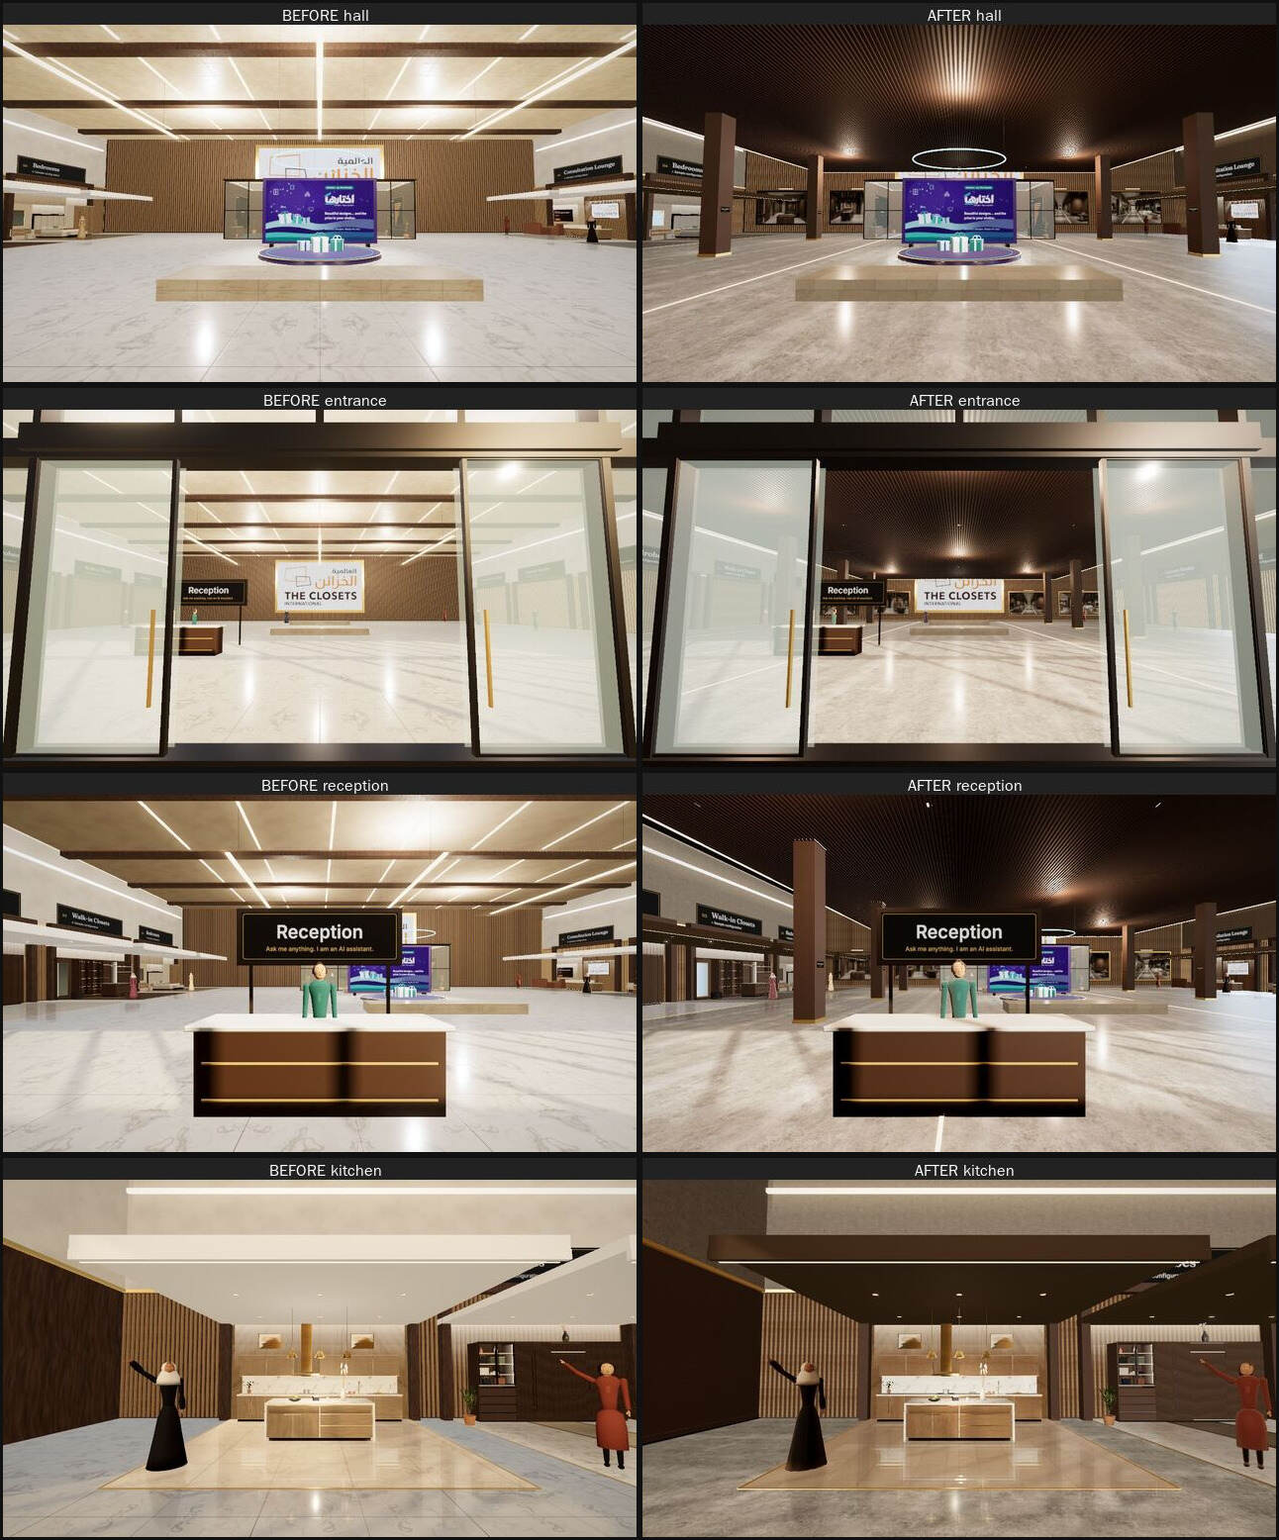
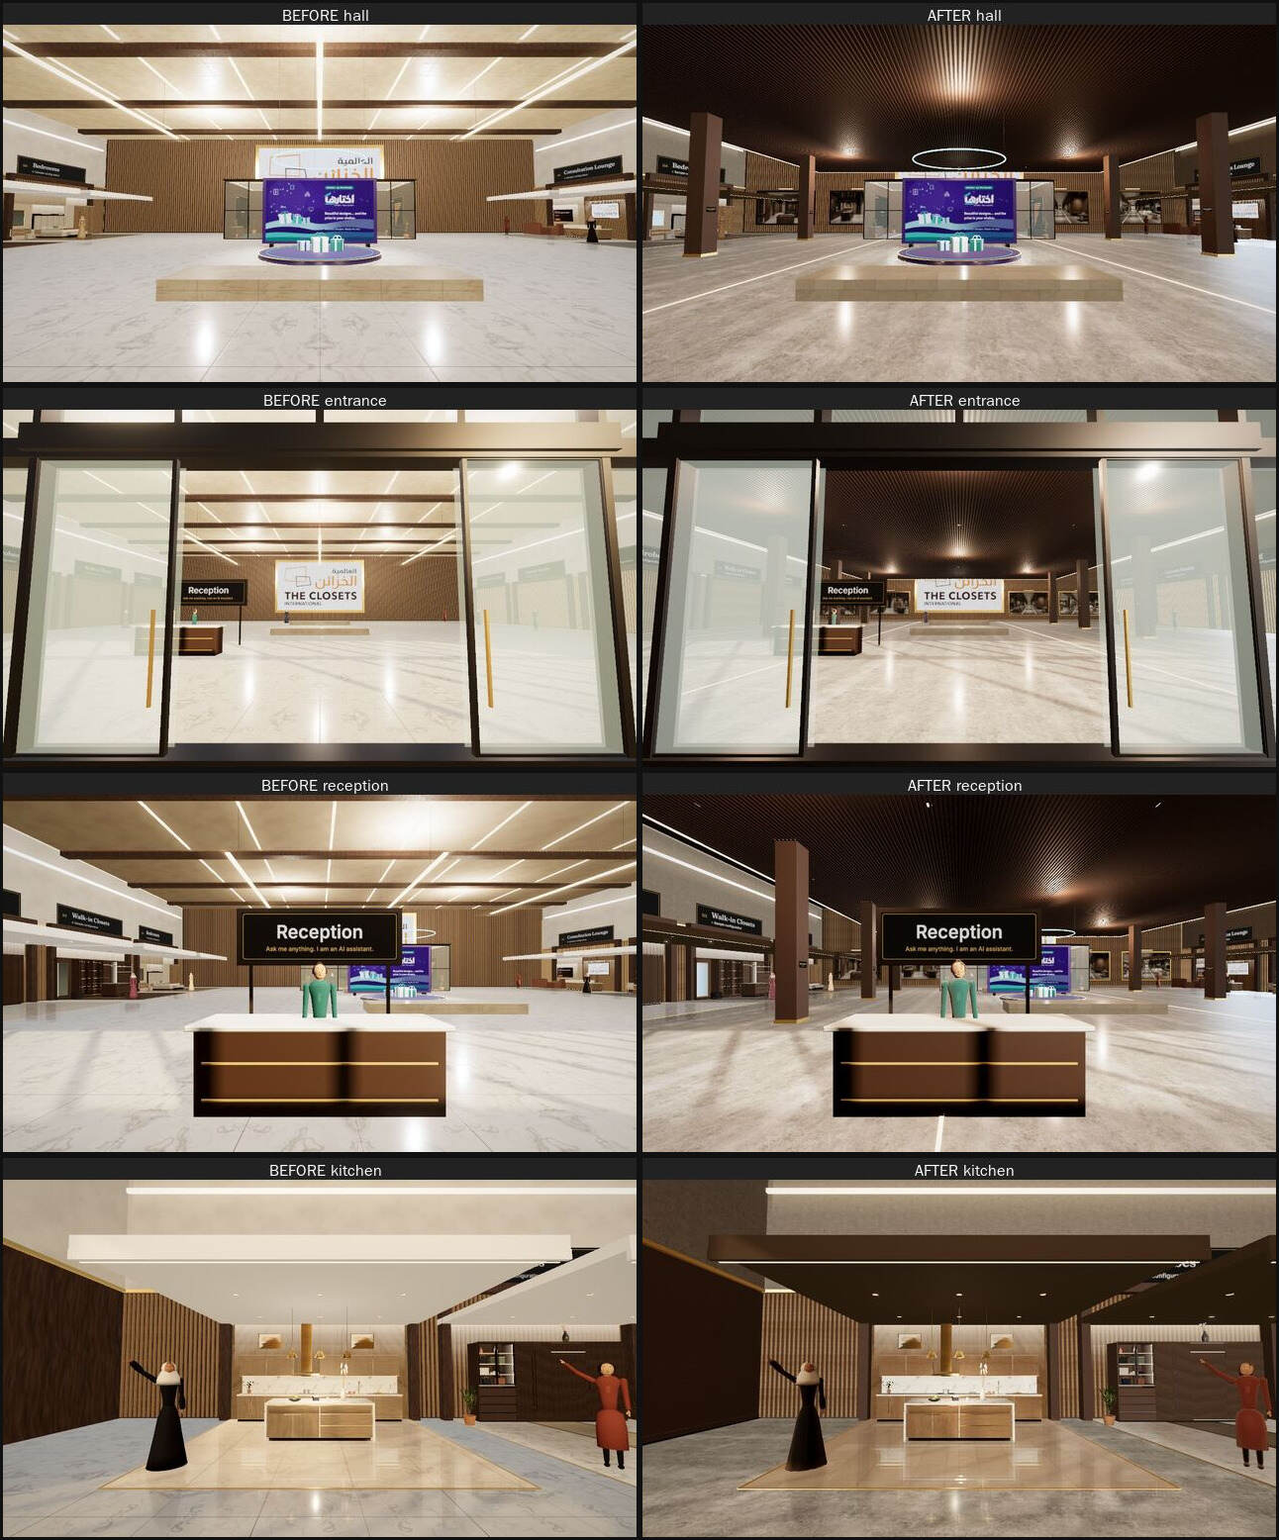
Realism 5: hijab drape below the chin, restrained sheen, palette-only colour literals, REALISM.md (scores, reference table, perf, assets, owner inputs), stats JSON, face close-up, GTAO harness switch
Claude-Session: https://claude.ai/code/session_017ZaR8CiDH3TQygKUjUtw2u

diff --git a/src/showroom3d/characters/rig.js b/src/showroom3d/characters/rig.js
@@ -15,7 +15,7 @@ let _mat = null;
 /** one shared material: vertex colours carry the albedo; a soft sheen lobe gives skin / cloth the cheap 'soft light' look of subsurface scattering, and the real linen normal map (CC0, Poly Haven rough_linen) gives cloth a woven micro relief */
 const material = () => {
   if (_mat) return _mat;
-  const m = new THREE.MeshPhysicalMaterial({ vertexColors: true, roughness: 0.72, metalness: 0.02, envMapIntensity: 0.45, sheen: 0.55, sheenRoughness: 0.45, sheenColor: new THREE.Color(P.skinB).lerp(new THREE.Color(0xffffff), 0.25) });
+  const m = new THREE.MeshPhysicalMaterial({ vertexColors: true, roughness: 0.72, metalness: 0.02, envMapIntensity: 0.45, sheen: 0.28, sheenRoughness: 0.5, sheenColor: new THREE.Color(P.sheenSoft) });   // restrained: a strong skin-coloured sheen turned black abayas brown
   const R = realSet('linen', 512); if (R && R.normal) { m.normalMap = toTex(R.normal, { srgb: false, repeat: [4, 4], anisotropy: 4 }); m.normalScale.set(0.55, 0.55); }
   return (_mat = m);
 };
@@ -103,7 +103,8 @@ export function buildCharacter(o = {}) {
   const wedge = (r, extra = 0.7) => new THREE.SphereGeometry(r, q ? 36 : 8, q ? 22 : 6, Math.PI / 2 + extra, Math.PI * 2 - 2 * extra, 0, 1.95);
   const covered = o.scarf || (male && outfit === 'thobe');
   if (covered) {
-    headItems.push(G(wedge(0.124, 0.7), scarfC, { y: 0.012, z: -0.008 }), G(new THREE.LatheGeometry(V([[0.125, -0.02], [0.2, -0.17], [0.215, -0.27], [0.001, -0.27]]).reverse(), q ? 36 : 8), scarfC, { y: -0.01, z: -0.02, s: [1, 1, 0.82] }));
+    headItems.push(G(wedge(0.124, 0.7), scarfC, { y: 0.012, z: -0.008 }), G(new THREE.LatheGeometry(V([[0.1, -0.085], [0.19, -0.19], [0.212, -0.29], [0.001, -0.29]]).reverse(), q ? 36 : 8), scarfC, { y: -0.01, z: -0.03, s: [1, 1, 0.82] }),
+      G(sph(0.086, q), scarfC, { y: -0.092, z: -0.016, s: [1.08, 0.72, 0.98] }));   // the drape now starts under the chin (it used to hide the mouth) with a soft wrap round the neck
     if (male) headItems.push(G(new THREE.TorusGeometry(0.115, 0.009, 4, q ? 14 : 8), P.agalBlack, { y: 0.065, rx: Math.PI / 2 }));
   } else if (o.hair !== 'none') {
     const hs = o.hair || (male || guest ? 'short' : 'bun');
@@ -113,10 +114,10 @@ export function buildCharacter(o = {}) {
     if (hs === 'long') headItems.push(G(limb(0.085, 0.06, 0.28, q), hairC, { y: -0.04, z: -0.07, s: [1.1, 1, 0.55] }));
   }
   const headMesh = M(headItems, head, 'headMesh');
-  const blush = new THREE.Color(skin).lerp(new THREE.Color(P.lipTone), 0.2).getHex(), lipHi = new THREE.Color(P.lipTone).lerp(new THREE.Color(0xffffff), 0.08).getHex(), iris = o.iris != null ? o.iris : P.eyeIris;
+  const blush = new THREE.Color(skin).lerp(new THREE.Color(P.lipTone), 0.2).getHex(), lipHi = new THREE.Color(P.lipTone).lerp(new THREE.Color(P.ikWhite), 0.08).getHex(), iris = o.iris != null ? o.iris : P.eyeIris;
   // eyes: sclera (slightly grey toward the corners), coloured iris with a darker limbal rim, pupil and a tiny specular catch-light; blink / saccade move the whole eye group
   const eyes = M([-1, 1].flatMap((x) => [G(sph(0.0128, q), P.sclera, { x: x * 0.036, s: [1.3, 0.88, 0.5] }), G(sph(0.0082, q), shade(iris, 0.55), { x: x * 0.036, z: 0.0035, s: [1, 1, 0.5] }), G(sph(0.0066, q), iris, { x: x * 0.036, z: 0.0045, s: [1, 1, 0.5] }),
-    G(sph(0.0034, 0), P.eyeDark, { x: x * 0.036, z: 0.0072, s: [1, 1, 0.45] }), G(sph(0.0014, 0), 0xffffff, { x: x * 0.036 + 0.0032, y: 0.0035, z: 0.0086 })]), head, 'eyes'); eyes.position.set(0, 0.022, 0.087); eyes.castShadow = false;
+    G(sph(0.0034, 0), P.eyeDark, { x: x * 0.036, z: 0.0072, s: [1, 1, 0.45] }), G(sph(0.0014, 0), P.ikWhite, { x: x * 0.036 + 0.0032, y: 0.0035, z: 0.0086 })]), head, 'eyes'); eyes.position.set(0, 0.022, 0.087); eyes.castShadow = false;
   // lids, lashes, brows (arched, three segments each), nose (bridge, tip, nostrils), cheeks and the upper lip live in the head mesh
   for (const x of [-1, 1]) {
     headItems.push(G(sph(0.0138, q), skinD, { x: x * 0.036, y: 0.0305, z: 0.0875, s: [1.32, 0.42, 0.62] }), G(new THREE.BoxGeometry(0.03, 0.0032, 0.004), P.eyeDark, { x: x * 0.036, y: 0.0345, z: 0.0948, rz: x * -0.06 }),
@@ -128,7 +129,7 @@ export function buildCharacter(o = {}) {
   // ---- arms: rounded upper arm + forearm (a bell sleeve on the abaya), mitten hand with a thumb
   const fore0 = outfit === 'suit' && male ? P.shirtWhite : cloth;
   for (const side of [-1, 1]) {
-    const sj = J(chest, side * (sh + 0.018), 0.41, 0, side < 0 ? 'shoulderR' : 'shoulderL'), upper = M([G(limb(0.05, 0.039, 0.25, q), cloth), G(sph(0.056, q), cloth, { y: -0.004, s: [1.0, 1.12, 1.0] })], sj, 'upperArm');   // the round deltoid fills the gap between shoulder and sleeve
+    const sj = J(chest, side * (sh + 0.018), 0.41, 0, side < 0 ? 'shoulderR' : 'shoulderL'), upper = M([G(limb(0.05, 0.039, 0.25, q), cloth), G(sph(0.0515, q), cloth, { y: -0.002, s: [1.0, 1.1, 1.0] })], sj, 'upperArm');   // the round deltoid fills the gap between shoulder and sleeve
     const ej = J(sj, 0, -0.27, 0, 'elbow');
     const fore = M([G(limb(0.039, 0.032 + sleeveW, 0.22, q, sleeveW * 0.5), fore0), G(sph(0.03, q), skin, { y: -0.285, s: [0.62, 1.3, 0.95] }), G(sph(0.024, q), skin, { y: -0.33, z: 0.004, s: [0.6, 1.25, 0.8] }), G(sph(0.0135, 0), skin, { x: -side * 0.022, y: -0.3, z: 0.018, s: [1, 1.7, 1] })], ej, 'foreArm');
     arms[side < 0 ? 'R' : 'L'] = { shoulder: sj, elbow: ej, upper, fore };

diff --git a/src/showroom3d/3d/realism/gallery.js b/src/showroom3d/3d/realism/gallery.js
@@ -22,11 +22,11 @@ export function buildGalleryFrames({ depth, lang = 'en' }) {
   GALLERY.forEach((g, i) => {
     const x = slots[i], grp = new THREE.Group(); grp.position.set(x, y, z); grp.userData.label = lang === 'ar' ? g.ar : g.en; grp.name = 'frame-' + g.id; group.add(grp);
     grp.add(mesh(box(W + 0.34, H + 0.34, 0.06), frameM, {})); grp.add(mesh(box(W + 0.16, H + 0.16, 0.07), matM, {}));
-    const m = new THREE.MeshBasicMaterial({ color: 0x000000, toneMapped: true }); mats.push(m);
+    const m = new THREE.MeshBasicMaterial({ color: PALETTE.ink, toneMapped: true }); mats.push(m);
     const pic = new THREE.Mesh(new THREE.PlaneGeometry(W, H), m); pic.position.z = 0.04; grp.add(pic);
     grp.add(mesh(box(1.4, 0.04, 0.12), light, { y: H / 2 + 0.34, z: 0.1 }));
   });
   const loader = new THREE.TextureLoader(), tex = [];
-  const load = () => GALLERY.forEach((g, i) => loader.load(galleryUrl(g), (t) => { t.colorSpace = THREE.SRGBColorSpace; t.anisotropy = 8; tex.push(t); mats[i].map = t; mats[i].color.setHex(0xe6dccf); mats[i].needsUpdate = true; }, undefined, () => { group.children[i].visible = false; }));
+  const load = () => GALLERY.forEach((g, i) => loader.load(galleryUrl(g), (t) => { t.colorSpace = THREE.SRGBColorSpace; t.anisotropy = 8; tex.push(t); mats[i].map = t; mats[i].color.setHex(PALETTE.photoTint); mats[i].needsUpdate = true; }, undefined, () => { group.children[i].visible = false; }));
   return { group, load, setLanguage(l) { group.children.forEach((c, i) => { c.userData.label = l === 'ar' ? GALLERY[i].ar : GALLERY[i].en; }); }, dispose() { tex.forEach((t) => t.dispose()); mats.forEach((m) => m.dispose()); } };
 }

diff --git a/src/showroom3d/3d/palette.js b/src/showroom3d/3d/palette.js
@@ -62,7 +62,7 @@ export const PALETTE = {
   // characters (procedural staff / visitor avatars): stylised skin tones, hair, modest professional outfits
   skinA: 0xf0c9a4, skinB: 0xd9a47c, skinC: 0xb97d57, skinD: 0x8a5a3c, hairBlack: 0x1c1512, hairBrown: 0x4a3224, hairDark: 0x2a1d16,
   abayaBlack: 0x211e22, abayaNavy: 0x1f2a44, abayaSage: 0x5f705c, abayaPlum: 0x5a3347, abayaSand: 0xb9a07f, coatTeal: 0x2e6b68, coatBrick: 0x8a4a3a,
-  scarfCream: 0xefe6d6, scarfRose: 0xc7a0a0, scarfGrey: 0x8c8f93, thobeWhite: 0xf3f0e8, ghutraWhite: 0xfafafa, agalBlack: 0x141214, suitGrey: 0x55585d, suitNavy: 0x28324a, shirtWhite: 0xf1f1ee, shoeDark: 0x1b1715, eyeDark: 0x1d1512, eyeIris: 0x5a3a24, sclera: 0xe9e5df, mouthDark: 0x3a1c1a, lipTone: 0x9a5a52,
+  scarfCream: 0xefe6d6, scarfRose: 0xc7a0a0, scarfGrey: 0x8c8f93, thobeWhite: 0xf3f0e8, ghutraWhite: 0xfafafa, agalBlack: 0x141214, suitGrey: 0x55585d, suitNavy: 0x28324a, shirtWhite: 0xf1f1ee, shoeDark: 0x1b1715, eyeDark: 0x1d1512, eyeIris: 0x5a3a24, sheenSoft: 0x8a7f78, photoTint: 0xe6dccf, sclera: 0xe9e5df, mouthDark: 0x3a1c1a, lipTone: 0x9a5a52,
   // overlay
   veil: 0xf6efe4,
   // material tints

diff --git a/docs/showroom3d/REALISM.md b/docs/showroom3d/REALISM.md
@@ -1,16 +1,64 @@
-# Showroom realism pass (branch `claude/web-realism-3`)
+# Showroom realism pass (branch `claude/web-realism-3`, draft PR #16)
 
-Owner feedback: the models looked cheap; characters, building, colours and lighting needed to become truly realistic; VIP text was hard to read.
-This pass is **add-only** (src/showroom3d, public/yas-bloom/realism, scripts/showroom3d-qa, docs). Honest headline: the showroom moved from a bright, white-marble, generic 3D look (about 4/10) to a dark walnut / microcement / warm-LED look that follows the owner's reference photos (about 6.5/10 in the hall, 5 to 6 in the rooms, characters 5.5/10). It is **not photoreal**, and fully photoreal people and products need licensed or custom assets (see the last section).
+Owner feedback: the models looked cheap; characters, building, colours and lighting needed to become truly realistic; VIP text was hard to read. The owner then sent 16 reference photos as the target look (dark walnut slat ceilings with spots and LED coves, travertine / concrete walls, light-grey microcement floor with LED guide lines, walnut columns with a lit brand plate, bouclé sofas, green marble vanity, dark kitchens).
+
+This pass is **add-only** (src/showroom3d, public/yas-bloom/realism, scripts/showroom3d-qa, docs). Honest headline: the hall moved from a bright white-marble generic look (4/10) to the reference's dark walnut / microcement / warm-LED language (6.5/10). The rooms improved less (5 -> 5.5 to 6) because their furniture was not remodelled. Characters are still stylised mannequins (4.5 -> 5). **Nothing here is photoreal.**
+
+## Before / after (viewed, high tier, software GL)
+
+Sheets: `screenshots/realism-1..4-*.jpg` (before left, after right) and `realism-5-face-closeup-after.jpg`. Scores are my own honest 1 to 10 against "a real premium showroom photo".
+
+| View | Before | After | What moved it / what still holds it back |
+|---|---|---|---|
+| Hall from spawn | 4 | 6.5 | slat ceiling, coves, spots + pools, floor LED lines, columns, grey microcement. Central benches and the stage are still blocky. |
+| Entrance (through the glass) | 5 | 6 | darker interior reads as depth; glass itself unchanged |
+| Reception | 4 | 6 | same hall changes; the desk is still a plain box |
+| Kitchens | 5 | 6 | real oak / limestone, dark soffit with warm spots; units are simple extrusions |
+| Wardrobes | 5 | 6 | as above |
+| Walk-in | 5 | 6 | as above; no green marble vanity / round mirror yet |
+| Bedrooms | 5 | 5.5 | real plank floor; bed and props unchanged |
+| Doors | 4.5 | 5.5 | darker, more contrast; door leaf unchanged |
+| Living | 5 | 6 | grade + soffit; sofas are still boxes, no bouclé, no big rug |
+| Custom Studio | 5 | 5.5 | screen text now readable from the stand point |
+| Consultation Lounge | 5 | 6 | readable panel, framed YAS Wood picture beside it |
+| VIP room | 5.5 | 5.5 | not edited here (VIP agent); only the shared walnut texture changed |
+| Adviser, 2 m | 4.5 | 5 | rounder limbs, real face features, folds; still a mannequin |
+| Adviser face, 1 m | 4 | 5 | eyes / brows / lips / hijab that no longer hides the mouth |
+| Arabic signs | 6 | 7 | 2x canvases, heavier type |
+| Mobile (low tier) hall | 4 | 5.5 | same look with baked ceiling bounce, no post effects |
+
+Iterations on the weakest views: hall colour and ceiling 5 rounds (orange cast -> beige floor -> neutral grey; slats glossy -> matte; columns moved twice so they frame the aisle and never block a bay), characters 3 rounds (faces, sheen that turned black abayas brown, hijab drape hiding the mouth), low tier 2 rounds (black ceiling -> baked bounce).
+
+## Reference photos vs render (how close, honestly)
+
+The reference photos are not in the repo except the four owner-confirmed YAS Wood images (see below). Closeness = how much of the reference's look the 3D view reproduces.
+
+| Reference | 3D view | Closeness | Matched | Missing |
+|---|---|---|---|---|
+| YAS Wood aisle with lit floor line and columns (`yw-showroom-axis`, `yw-columns-aisle`) | hall | 5.5/10 | slat ceiling + spots, LED floor lines, walnut columns with a lit plate, grey floor, greige walls | the white central ceiling strip, travertine vein direction, furniture vignettes along the aisle, soft global illumination |
+| YAS Wood kitchen + dining (`yw-kitchen-dining`) | kitchens | 4/10 | walnut / stone palette, warm spots, pendants | dark marble island, fluted table, glass display niches with LED |
+| YAS Wood walk-in (`yw-walkin-vanity`) | walk-in | 4/10 | walnut wardrobes, island with drawers | green marble vanity, round mirror, bronze glass fronts with vertical LED |
+| Dark matt kitchens with brass and ribbed glass (unmarked) | kitchens | 3.5/10 | brass, stone | graphite fronts as default finish, ribbed-glass hood |
+| Bouclé sofas, large rugs, sheer curtains (unmarked, one MANTK) | living, lounge | 3.5/10 | warm low-key light | bouclé sofas, organic rugs, curtains, trees in planters |
+| Travertine wall with cove wash (unmarked) | bay feature walls | 4.5/10 | cove wash, fluted wall | real travertine slabs |
+
+## Not done in this pass (so nobody assumes it is there)
+
+* Screen-space AO: a GTAO pass exists behind `?ao=1` (high tier) but it visibly over-darkens the floor near the planar reflector, so it is **off by default**. The baked AO decals and contact-shadow decals from the earlier phases still do that job.
+* Shadows stay PCF-soft (no PCSS / VSM); no window gobos / light shafts beyond the existing sun stripes; glass is unchanged (transmission on high was already there).
+* Bevels: the default chamfer of every `bevelBox` went from 2 mm to 5 mm; hall boxes (benches, desk) are still sharp. Door architraves, mullions, wall panelling and new props were not added.
+* No anti-repetition (macro variation) shader; tiling scale was kept from the procedural sets.
+* Room furniture was not remodelled to the reference (see the table above).
+* KTX2 / basis: no encoder available; WebP is shipped.
 
 ## What changed
 
 | Area | Change | Where |
 |---|---|---|
-| Lighting | Real HDRI (Poly Haven `brown_photostudio_05`, graded warm + darker floor half, PMREM) drives every interior reflection / ambient term. Warm key 3600 K, cool fill 5600 K (hemisphere), exposure 0.78 ACES. Sun fades inside the hall (existing). Spot light pools + LED coves are emissive (HDR) so the high-tier bloom picks them up. | `3d/realism/*`, `3d/engine.js`, `3d/materials.js`, `3d/pbr.js` |
+| Lighting | Real HDRI (Poly Haven `brown_photostudio_05`, graded warm + darker floor half, PMREM) drives every interior reflection / ambient term. Warm key 4300 K (3600 K turned the grey floor beige), cool fill 5600 K (hemisphere), exposure 0.78 ACES. Sun fades inside the hall (existing). Spot light pools + LED coves are emissive (HDR) so the high-tier bloom picks them up. | `3d/realism/*`, `3d/engine.js`, `3d/materials.js`, `3d/pbr.js` |
 | Colour | Palette moved to the reference look: dark walnut, greige plaster, light-grey microcement floor, brass, deep charcoal ceiling plenum. New tokens only in `3d/palette.js`. | `3d/palette.js` |
 | Materials | CC0 PBR sets (albedo + normal + ORM) replace the procedural textures where a real set exists (oak, walnut, limestone, stucco/plaster, microcement, linen, velvet, leather, planks, herringbone). Procedural generators stay as automatic fallback. Marble and brushed metal stay procedural (no CC0 polished marble / brushed brass in the reachable catalogue). | `3d/realism/registry.js` + shims in `textures.js`, `pbr.js` |
-| Building | Suspended walnut slat ceiling (4.8 m reads as a showroom, the double-height volume stays above as a lit plenum), LED coves on all edges, recessed spots on a grid with floor light pools, two continuous warm LED guide lines along the aisle, dark walnut bay soffits (were white), back-wall framed pictures. | `scenes/main-hall/hall.js`, `scenes/products/stage.js` |
+| Building | Suspended walnut slat ceiling at 6.1 m (reads as a showroom, the double-height volume stays above as a lit plenum), LED coves on all edges, recessed spots on a grid with floor light pools, two continuous warm LED guide lines along the aisle, dark walnut bay soffits (were white), six walnut columns with a lit THE CLOSETS plate framing the aisle (with colliders), skirting + shadow gap on the back wall and wings, back-wall framed pictures. | `scenes/main-hall/hall.js`, `scenes/products/stage.js` |
 | Characters | 24-segment heads, iris/sclera/pupil/specular eyes, lids + lashes, arched brows, nose, lips, blush, ear detail, hair sheen band, cloth folds on abaya / coat skirts, linen normal map + sheen (soft-light skin), eye saccades, GLB adapter (below). | `characters/*` |
 | Readability | Bay signs drawn at 2x (2048x512), mipmapped, anisotropy 16, larger and heavier type (contrast sand on charcoal 12:1). Studio and lounge screens drawn at 2x with 32 to 76 px type (was 22 to 30 px), no 400-weight text, sand instead of taupe for body copy. VIP wall / screens untouched (VIP agent). | `scenes/main-hall/signs.js`, `scenes/products/screens.js` |
 | YAS Wood gallery | Four owner-confirmed images (below) as the loader backdrop and as four framed pictures on the hall back wall (lazy, after the intro). | `3d/realism/gallery.js` |
@@ -54,6 +102,8 @@ EN / AR alt text lives in `src/showroom3d/3d/realism/gallery.js` (`GALLERY`). Th
 | Anisotropy | 1 | 4 | 8 (signs 16) |
 | Interior HDRI | yes (PMREM, 400 KB, loaded during the intro) | yes | yes |
 | Shadows | PCF | PCF soft | PCF soft |
+| Ceiling | slats with a baked warm bounce (no hall point lights) | lit by 3 point lights | lit by 6 point lights |
+| AO | baked decals | baked decals | baked decals (GTAO only with `?ao=1`, not production ready) |
 | Bloom / grade | none | none | yes (existing lazy chunk) |
 | Slat density | 0.5 (twice the spacing, fewer instances) | 1 | 1 |
 | Floor planar reflection | no | no | yes (existing) |
@@ -61,9 +111,28 @@ EN / AR alt text lives in `src/showroom3d/3d/realism/gallery.js` (`GALLERY`). Th
 
 The realism assets download while the existing loader / intro is on screen (HDRI + 30 small WebP files, 1.8 MB); the four gallery pictures load 1.5 s after the first frame. Non-showroom pages are unaffected: everything is inside the lazy `showroom3d` chunk and `public/`.
 
+## Performance (measured, `docs/showroom3d/realism-stats.json`)
+
+Playwright + SwiftShader (CPU rendering, so fps is meaningless here), 1100 x 620, counts summed over all passes of one frame.
+
+| Tier | Spot | Draw calls before -> after | Triangles before -> after | Textures in GPU memory |
+|---|---|---|---|---|
+| high | hall | 410 -> 445 | 187k -> 206k | 115 -> 124 |
+| high | kitchen | 516 -> 523 | 257k -> 333k | 123 -> 132 |
+| high | wardrobe (worst case) | 866 -> 872 | 477k -> 598k | 124 -> 133 |
+| high | living | 609 -> 609 | 229k -> 292k | 132 -> 141 |
+| medium | hall / kitchen / walk-in / living | 368 / 390 / 432 / 419 | 180k / 269k / 284k / 238k | 110 to 126 |
+| low | hall / kitchen / walk-in / living / VIP | 339 / 337 / 375 / 368 / 212 | 128k / 145k / 159k / 130k / 92k | 89 to 104 |
+
+Low tier stays inside the existing guardrail (under 450 draw calls and 200k triangles at every measured spot). The triangle growth on high / medium is the smoother characters (24-segment spheres) plus slats, columns and frames. Draw calls grew by about 35 in the hall (slats, coves, spots, pools, columns, frames: all instanced or merged). JS: `showroom3d` chunk 139.4 -> 145.0 kB gzip, `main` +70 bytes (the CSS variable and nothing else). Shipped assets: 1.96 MB (HDRI 0.40, textures 1.38, gallery 0.18).
+
+## Adviser names (owner decision)
+
+Each adviser now has a common Arabic first name with her role as subtitle: Noor (Reception), Maryam (Kitchens), Layla (Wardrobes), Dana (Walk-in), Reem (Bedrooms), Hessa (Doors), Sara (Living), Aisha (Studio), Fatima (Lounge), Zainab (VIP). Display form "Noor, Reception advisor" / "نور، مستشارة الاستقبال". The Talk button still reads "Talk to Noor, Reception advisor (AI)", the chat keeps its "AI assistant" badge and disclosure line, the opening line says "I am Noor, the Reception advisor, an AI assistant", and the greeting bubble says "(AI assistant)". Names live in `staff/roster.js` (`FIRST_NAMES`).
+
 ## Characters: what is possible and what is not
 
-* Procedural rig upgraded as listed above. Honest score about 5.5/10 (was about 4.5 to 6 depending on view). They are still stylised mannequins: no real hair strands, no subsurface skin, no cloth simulation.
+* Procedural rig upgraded as listed above. Honest score 5/10 (was 4.5). They are still stylised mannequins: no real hair strands, no subsurface skin, no cloth simulation.
 * **No legally usable rigged humanoid GLB was available** on the permitted hosts: Poly Haven has no characters, ambientCG is blocked, the only reachable sample (Khronos `CesiumMan`) is CC-BY and a different style. So none is shipped.
 * A drop-in layer exists: `characters/glbCharacter.js` (GLTFLoader + SkeletonUtils.clone, optional Draco and meshopt, bone-name retargeting for Mixamo / Ready Player Me / Reallusion / MetaHuman naming, same interface as the procedural rig) and `characters/glbConfig.js` (empty). Add one line per adviser, the staff logic (roster, anim state machine, chat) is untouched, and any failure falls back to the procedural character. It is unit-tested with a synthetic skeleton only; it has **not** been tried on a real licensed asset, so expect a calibration pass (joint sign conventions, rest pose).
 * Headscarf option: the roster (`staff/roster.js`) is unchanged: it already gives six advisers a light headscarf and four none, role-based and modest. It stays an owner-reviewable preset in that one file.
